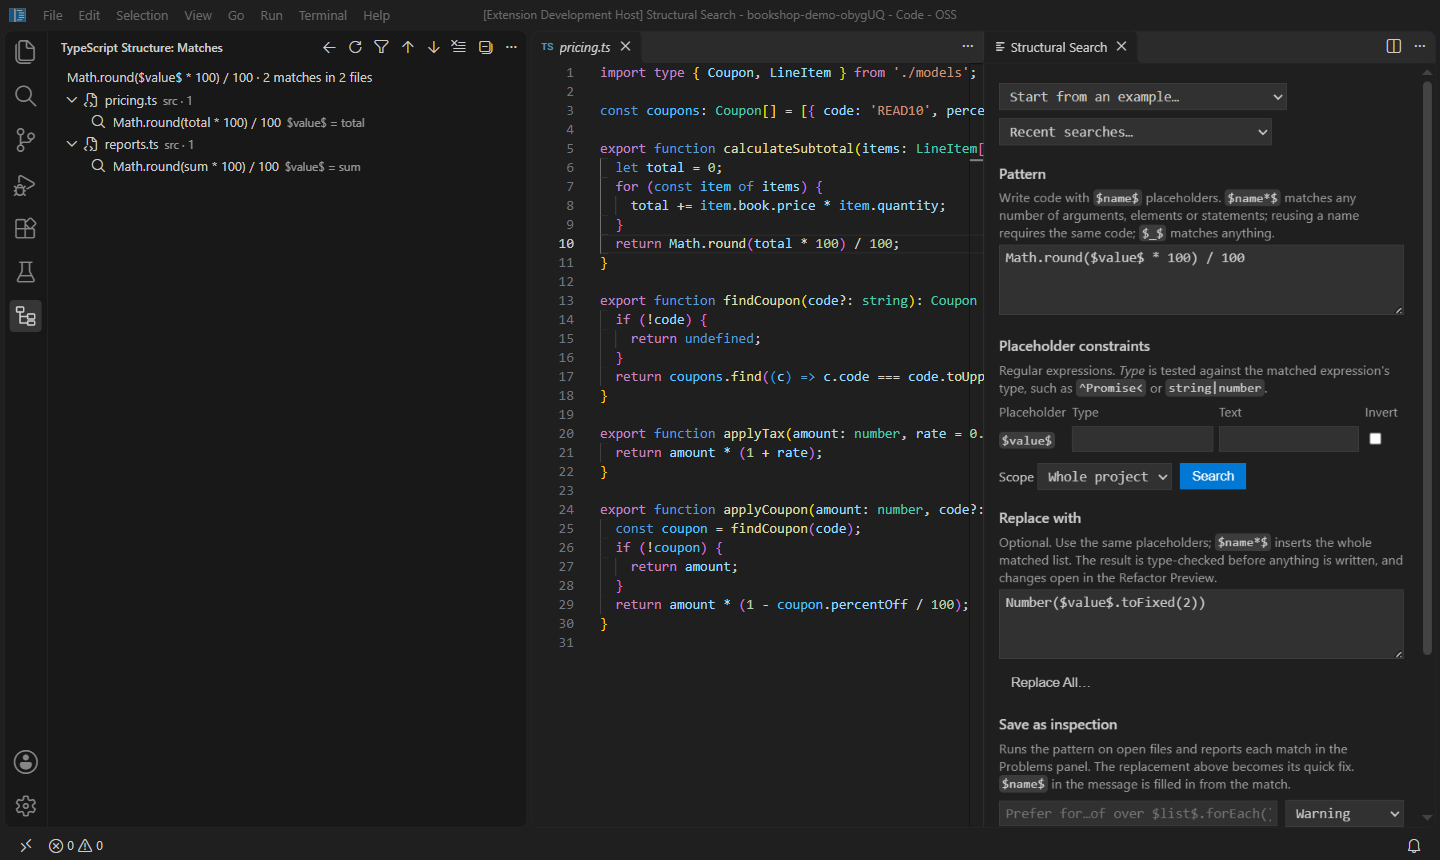
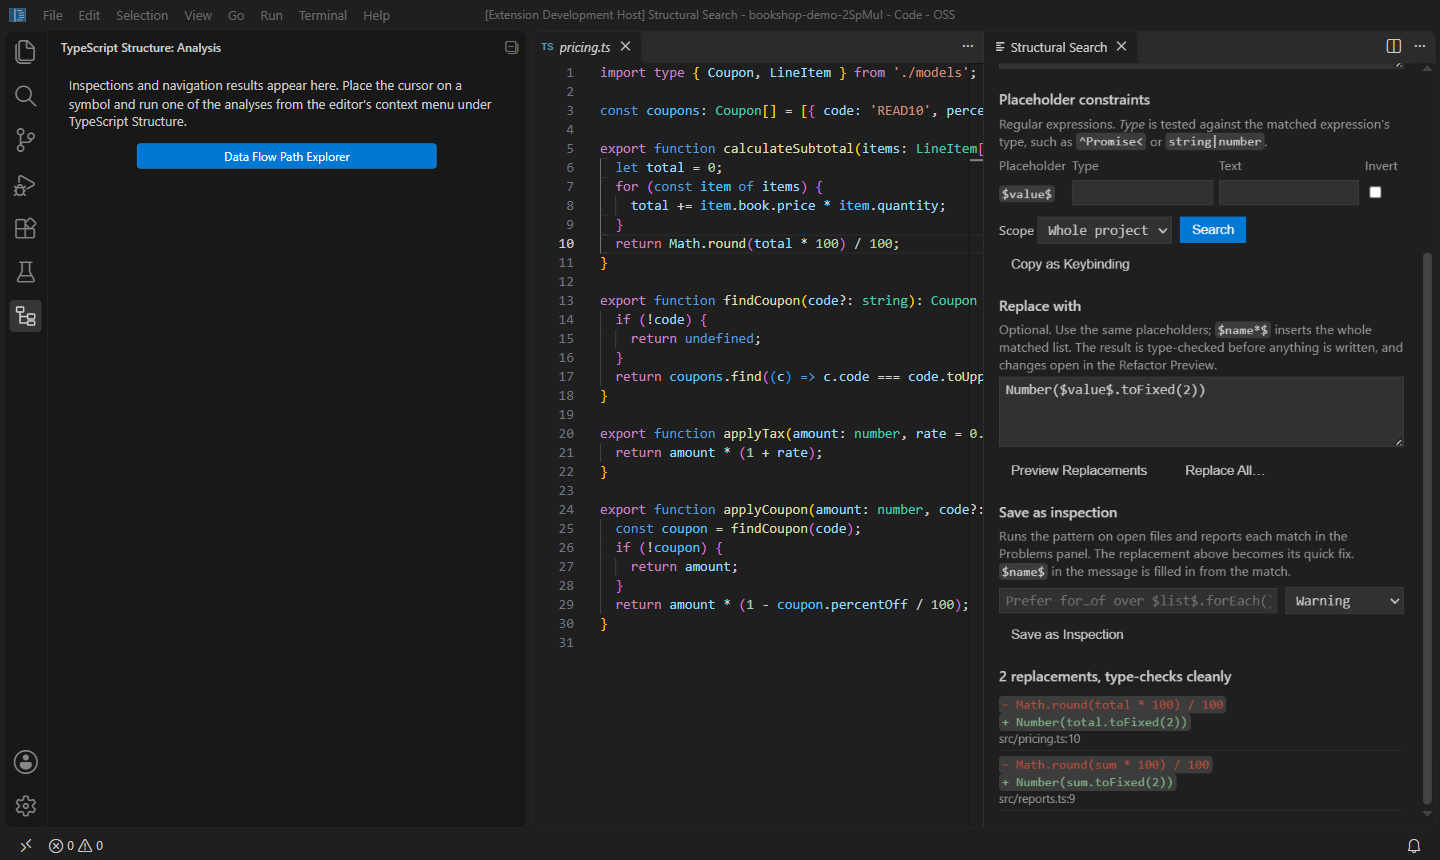
Structural Replace: preview each rewrite before replacing
Preview Replacements computes the replacement in a copy of the project and lists every match as its old and new code with file:line, plus any type errors it would introduce, without writing anything. A saved search with preview: true opens straight into it.

diff --git a/src/ui/structuralSearchPanel.ts b/src/ui/structuralSearchPanel.ts
@@ -22,6 +22,7 @@ type Message =
   | { type: 'validate'; spec: SearchSpec }
   | { type: 'copyKeybinding'; spec: SearchSpec; scope: Scope; template: string }
   | { type: 'replace'; spec: SearchSpec; scope: Scope; template: string }
+  | { type: 'previewReplace'; spec: SearchSpec; scope: Scope; template: string }
   | { type: 'saveInspection'; spec: SearchSpec; template: string; message: string; severity: Severity };
 
 /** Structural Search Builder: a pattern editor with typed placeholder constraints and live results. */
@@ -35,7 +36,7 @@ export class StructuralSearchPanel {
     context: vscode.ExtensionContext,
     projects: ProjectService,
     view: StructureView,
-    initial?: { pattern?: string; anchor?: string; inspection?: CustomInspectionConfig; preset?: SearchPreset & { run?: boolean } },
+    initial?: { pattern?: string; anchor?: string; inspection?: CustomInspectionConfig; preset?: SearchPreset & { run?: boolean; preview?: boolean } },
   ): StructuralSearchPanel {
     const anchor = initial?.anchor ?? vscode.window.activeTextEditor?.document.uri.fsPath;
     if (!anchor) {
@@ -157,6 +158,26 @@ export class StructuralSearchPanel {
       }
       return;
     }
+    if (message.type === 'previewReplace') {
+      // Computed in a copy of the project, so nothing is written.
+      try {
+        const project = this.projects.createVirtualProject(this.anchor, this.folder());
+        const result = structuralReplace(project, clean(message.spec), message.template, this.scopeOf(message.scope));
+        void this.panel.webview.postMessage({
+          type: 'preview',
+          items: result.replacements.slice(0, 200).map((r) => ({
+            where: `${vscode.workspace.asRelativePath(r.file)}:${r.line}`,
+            before: r.before.replace(/\s+/g, ' ').slice(0, 120),
+            after: r.after.replace(/\s+/g, ' ').slice(0, 120),
+          })),
+          count: result.matches,
+          conflicts: result.conflicts.map((c) => c.message),
+        });
+      } catch (error) {
+        void this.panel.webview.postMessage({ type: 'error', message: error instanceof Error ? error.message : String(error) });
+      }
+      return;
+    }
     if (message.type === 'replace') {
       try {
         const project = this.projects.createVirtualProject(this.anchor, this.folder());
@@ -262,7 +283,7 @@ export function registerStructuralSearch(context: vscode.ExtensionContext, proje
       }
     }),
     // Takes an optional saved search, so a keybinding can run one: { pattern, constraints, replacement, scope, run }.
-    vscode.commands.registerCommand('tsStructure.structuralSearch', (preset?: SearchPreset & { run?: boolean }) => {
+    vscode.commands.registerCommand('tsStructure.structuralSearch', (preset?: SearchPreset & { run?: boolean; preview?: boolean }) => {
       const editor = vscode.window.activeTextEditor;
       const selected = editor && !editor.selection.isEmpty ? editor.document.getText(editor.selection) : undefined;
       try {
@@ -278,7 +299,7 @@ export function registerStructuralSearch(context: vscode.ExtensionContext, proje
   );
 }
 
-function html(webview: vscode.Webview, pattern: string, preset?: SearchPreset & { run?: boolean }): string {
+function html(webview: vscode.Webview, pattern: string, preset?: SearchPreset & { run?: boolean; preview?: boolean }): string {
   const nonce = Math.random().toString(36).slice(2) + Math.random().toString(36).slice(2);
   return `<!DOCTYPE html>
 <html lang="en">
@@ -305,6 +326,8 @@ function html(webview: vscode.Webview, pattern: string, preset?: SearchPreset & 
   li:hover { background: var(--vscode-list-hoverBackground); }
   code { font-family: var(--vscode-editor-font-family); }
   .where, .bindings { color: var(--vscode-descriptionForeground); font-size: 0.9em; }
+  .before { color: var(--vscode-gitDecoration-deletedResourceForeground, #c74e39); }
+  .after { color: var(--vscode-gitDecoration-addedResourceForeground, #81b88b); }
 </style>
 </head>
 <body>
@@ -328,7 +351,10 @@ function html(webview: vscode.Webview, pattern: string, preset?: SearchPreset & 
   <h2>Replace with</h2>
   <p class="hint">Optional. Use the same placeholders; <code>$name*$</code> inserts the whole matched list. The result is type-checked before anything is written, and changes open in the Refactor Preview.</p>
   <textarea id="template" spellcheck="false" placeholder="for (const item of $list$) $callback$(item)"></textarea>
-  <div class="row"><button id="replace" class="secondary" title="Ctrl+Enter in the replacement">Replace All…</button></div>
+  <div class="row">
+    <button id="previewReplace" class="secondary" title="Show each match with its replacement, without changing any file">Preview Replacements</button>
+    <button id="replace" class="secondary" title="Ctrl+Enter in the replacement">Replace All…</button>
+  </div>
   <h2>Save as inspection</h2>
   <p class="hint">Runs the pattern on open files and reports each match in the Problems panel. The replacement above becomes its quick fix. <code>$name$</code> in the message is filled in from the match.</p>
   <div class="row">
@@ -434,6 +460,11 @@ function html(webview: vscode.Webview, pattern: string, preset?: SearchPreset & 
     $('error').textContent = '';
     vscode.postMessage({ type: 'saveInspection', spec: spec(), template: $('template').value, message: $('message').value, severity: $('severity').value });
   });
+  $('previewReplace').addEventListener('click', () => {
+    $('error').textContent = '';
+    $('summary').textContent = 'Computing replacements…';
+    vscode.postMessage({ type: 'previewReplace', spec: spec(), scope: $('scope').value, template: $('template').value });
+  });
   $('replace').addEventListener('click', () => {
     $('error').textContent = '';
     $('summary').textContent = 'Computing replacements…';
@@ -450,6 +481,27 @@ function html(webview: vscode.Webview, pattern: string, preset?: SearchPreset & 
     if (message.type === 'prefill') { $('pattern').value = message.pattern; save(); renderConstraints(); }
     if (message.type === 'preset') applyPreset(message.preset);
     if (message.type === 'validation') $('patternProblem').textContent = message.problem || '';
+    if (message.type === 'preview') {
+      $('summary').textContent = message.count + (message.count === 1 ? ' replacement' : ' replacements') + (message.conflicts.length ? ', ' + message.conflicts.length + ' new type error' + (message.conflicts.length === 1 ? '' : 's') : ', type-checks cleanly');
+      $('count').textContent = '';
+      const list = $('results');
+      list.innerHTML = '';
+      for (const problem of message.conflicts) {
+        const li = document.createElement('li');
+        li.className = 'error';
+        li.textContent = problem;
+        list.appendChild(li);
+      }
+      for (const item of message.items) {
+        const li = document.createElement('li');
+        li.innerHTML = '<div><code class="before"></code></div><div><code class="after"></code></div><div class="where"></div>';
+        li.querySelector('.before').textContent = '− ' + item.before;
+        li.querySelector('.after').textContent = '+ ' + item.after;
+        li.querySelector('.where').textContent = item.where;
+        list.appendChild(li);
+      }
+      $('summary').scrollIntoView({ behavior: 'smooth', block: 'start' });
+    }
     if (message.type === 'load') loadPreset({ ...message.inspection, message: message.inspection.message || '', severity: message.inspection.severity || 'warning' });
     if (message.type === 'history') {
       recent = message.items;
@@ -487,7 +539,8 @@ function html(webview: vscode.Webview, pattern: string, preset?: SearchPreset & 
   function applyPreset(p) {
     loadPreset(p);
     if (p.scope) { $('scope').value = p.scope; save(); }
-    if (p.run) $('search').click();
+    if (p.preview) $('previewReplace').click();
+    else if (p.run) $('search').click();
   }
   const initialPreset = ${JSON.stringify(preset ?? null).replace(/</g, '\\u003c')};
   if (initialPreset) applyPreset(initialPreset);

diff --git a/src/search/structuralSearch.ts b/src/search/structuralSearch.ts
@@ -390,7 +390,15 @@ export function outermost(matches: readonly Match[]): Match[] {
 }
 
 /** Type-Safe Structural Replace: rewrites every match, then type-checks the result against the original. */
-export function structuralReplace(project: VirtualProject, spec: SearchSpec, template: string, scope: SearchScope = {}): RefactorResult & { matches: number } {
+/** One rewrite of a structural replace, for previewing before anything is written. */
+export interface Replacement {
+  file: string;
+  line: number;
+  before: string;
+  after: string;
+}
+
+export function structuralReplace(project: VirtualProject, spec: SearchSpec, template: string, scope: SearchScope = {}): RefactorResult & { matches: number; replacements: Replacement[] } {
   const program = project.program();
   const matches = outermost(structuralSearch(program, spec, scope));
   const byFile = new Map<string, Match[]>();
@@ -406,6 +414,12 @@ export function structuralReplace(project: VirtualProject, spec: SearchSpec, tem
     }
     project.setText(file, result);
   }
+  const replacements = matches.map((m) => ({
+    file: m.sourceFile.fileName,
+    line: m.sourceFile.getLineAndCharacterOfPosition(m.start).line + 1,
+    before: m.sourceFile.text.slice(m.start, m.end),
+    after: instantiate(template, m),
+  }));
   const label = `Replace ${spec.pattern.trim().split('\n')[0]}`;
-  return { label: label.length > 60 ? `${label.slice(0, 59)}…` : label, changes: project.changes(), conflicts: introducedErrors(project, [], 20), matches: matches.length };
+  return { label: label.length > 60 ? `${label.slice(0, 59)}…` : label, changes: project.changes(), conflicts: introducedErrors(project, [], 20), matches: matches.length, replacements };
 }

diff --git a/src/test/structuralSearch.test.ts b/src/test/structuralSearch.test.ts
@@ -54,6 +54,10 @@ test('replace rewrites matches and reports type errors it would introduce', () =
   assert.equal(ok.matches, 1);
   assert.deepEqual(ok.conflicts, []);
   assert.match(changedText(ok, file), /const same = true;/);
+  // Each rewrite is listed for the preview.
+  assert.equal(ok.replacements.length, 1);
+  assert.equal(ok.replacements[0].after, 'true');
+  assert.match(ok.replacements[0].before, /^(\w+) === \1$/);
 
   const broken = structuralReplace(virtualProject('search', 'src/code.ts'), { pattern: 'console.log($a$)', constraints: [{ name: 'a', type: '^string$' }] }, '$a$.toFixed()');
   assert.equal(broken.matches, 4);

diff --git a/src/test/screenshots/scenes.ts b/src/test/screenshots/scenes.ts
@@ -104,7 +104,7 @@ export const scenes: Scene[] = [
       await vscode.commands.executeCommand('tsStructure.structuralSearch', {
         pattern: 'Math.round($value$ * 100) / 100',
         replacement: 'Number($value$.toFixed(2))',
-        run: true,
+        preview: true,
       });
     },
     settle: 2500,
